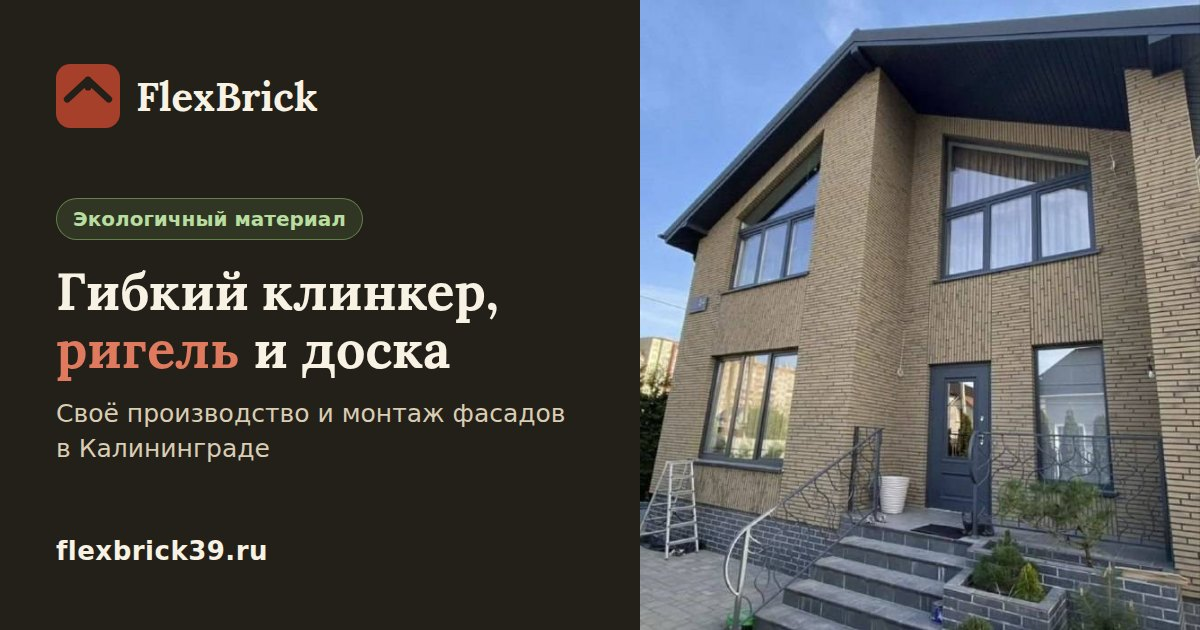
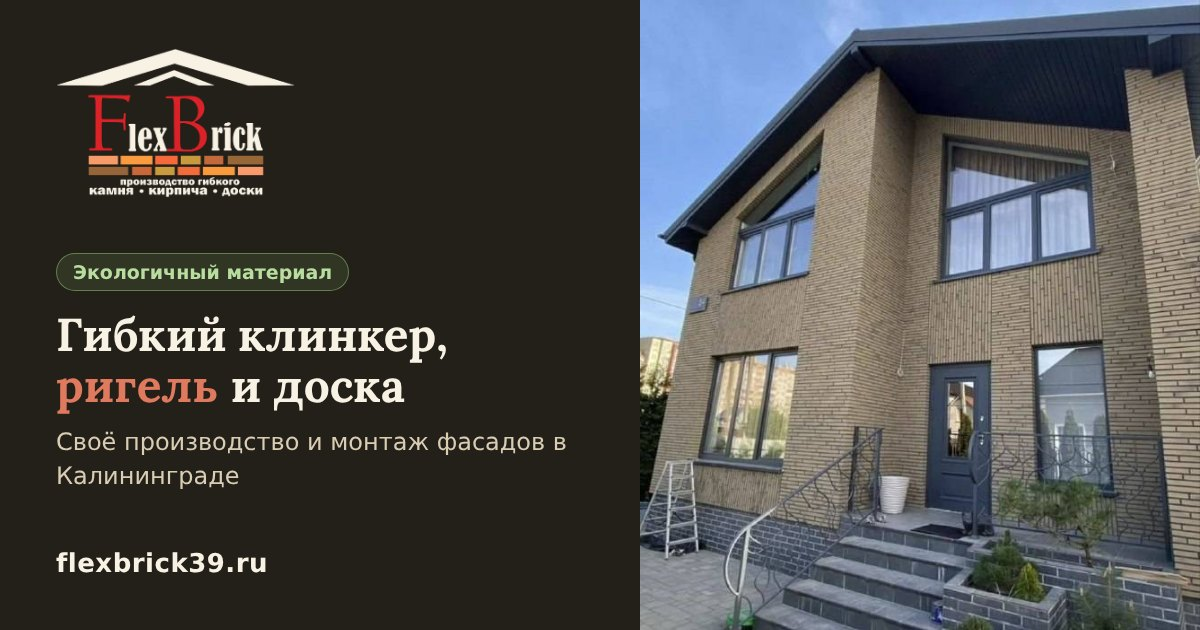
Новый логотип

Changed region(s): [[0.0308, 0.0603, 0.4933, 0.7841], [0.0308, 0.8444, 0.2467, 0.9048]]

diff --git a/index.html b/index.html
@@ -25,7 +25,6 @@
 <meta content="index, follow" name="robots"/>
 <link href="/favicon.ico" rel="icon" sizes="any"/>
 <link href="assets/favicon-120.png" rel="icon" sizes="120x120" type="image/png"/>
-<link href="assets/favicon.svg" rel="icon" type="image/svg+xml"/>
 <link href="assets/favicon-32.png" rel="icon" sizes="32x32" type="image/png"/>
 <link href="assets/apple-touch-icon.png" rel="apple-touch-icon"/>
 <meta content="#231F19" name="theme-color"/>
@@ -49,7 +48,7 @@
  "taxID": "390610799661",
  "description": "Производство экологичного гибкого клинкера (гибкого кирпича, гибкой плитки под кирпич), гибкого ригеля (ригельного кирпича), гибкой доски и каменного скола в Калининграде. Гибкий материал для облицовки фасада и интерьера, монтаж под ключ, бесплатный замер.",
  "url": "https://flexbrick39.ru/",
- "logo": "https://flexbrick39.ru/assets/apple-touch-icon.png",
+ "logo": "https://flexbrick39.ru/assets/logo/logo-square.png",
  "image": "https://flexbrick39.ru/assets/og-image.jpg",
  "email": "flexbrick_39@mail.ru",
  "address": {
@@ -881,18 +880,19 @@
 .rv-lb-prev{left:12px;} .rv-lb-next{right:12px;}
 .rv-lb-cap{position:absolute;left:0;right:0;bottom:calc(14px + env(safe-area-inset-bottom,0px));text-align:center;color:var(--cream);font-size:.92rem;padding:0 16px;}
 </style>
+<style id="flexbrick-logo-style">
+.brand-logo{height:46px;width:auto;display:block;flex:none;}
+.foot-logo{height:96px;width:auto;display:block;}
+@media (min-width:1081px){ .brand-logo{height:54px;} .brand-sub{white-space:normal !important;max-width:150px;line-height:1.25;} }
+@media (max-width:380px){ .brand-logo{height:40px;} }
+</style>
 </head>
 <body>
 <header>
 <div class="wrap headbar">
 <a aria-label="FlexBrick — гибкий клинкер, на главную" class="brand" href="#hero">
-<svg aria-hidden="true" class="brand-mark" fill="none" viewbox="0 0 40 40" xmlns="http://www.w3.org/2000/svg">
-<rect fill="#A6402A" height="40" rx="9" width="40"></rect>
-<path d="M7 22 L20 10 L33 22" fill="none" stroke="#231F19" stroke-linecap="round" stroke-linejoin="round" stroke-width="4.2"></path>
-<line stroke="#231F19" stroke-linecap="round" stroke-width="4.2" x1="20" x2="20" y1="10" y2="14.5"></line>
-</svg>
+<img alt="FlexBrick — производство гибкого камня, кирпича, доски" class="brand-logo" height="48" src="assets/logo/logo-compact-dark.png" width="89"/>
 <span class="brand-text">
-<span class="brand-name">FlexBrick</span>
 <span class="brand-sub">экологичный гибкий клинкер · Калининград</span>
 </span>
 </a>
@@ -1496,12 +1496,7 @@
 <div class="wrap">
 <div class="foot-grid">
 <div class="foot-brand">
-<svg aria-hidden="true" class="brand-mark" fill="none" viewbox="0 0 40 40" xmlns="http://www.w3.org/2000/svg">
-<rect fill="#A6402A" height="40" rx="9" width="40"></rect>
-<path d="M7 22 L20 10 L33 22" fill="none" stroke="#231F19" stroke-linecap="round" stroke-linejoin="round" stroke-width="4.2"></path>
-<line stroke="#231F19" stroke-linecap="round" stroke-width="4.2" x1="20" x2="20" y1="10" y2="14.5"></line>
-</svg>
-<span>FlexBrick — гибкий клинкер</span>
+<img alt="FlexBrick — производство гибкого камня, кирпича, доски" class="foot-logo" height="96" loading="lazy" src="assets/logo/logo-full-dark.png" width="153"/>
 </div>
 <nav class="foot-links">
 <a href="#material">О материале</a>
